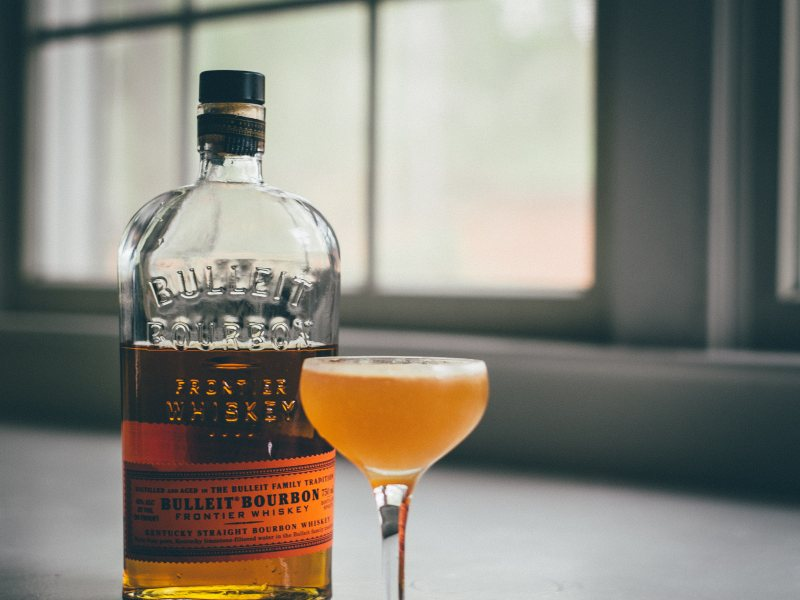
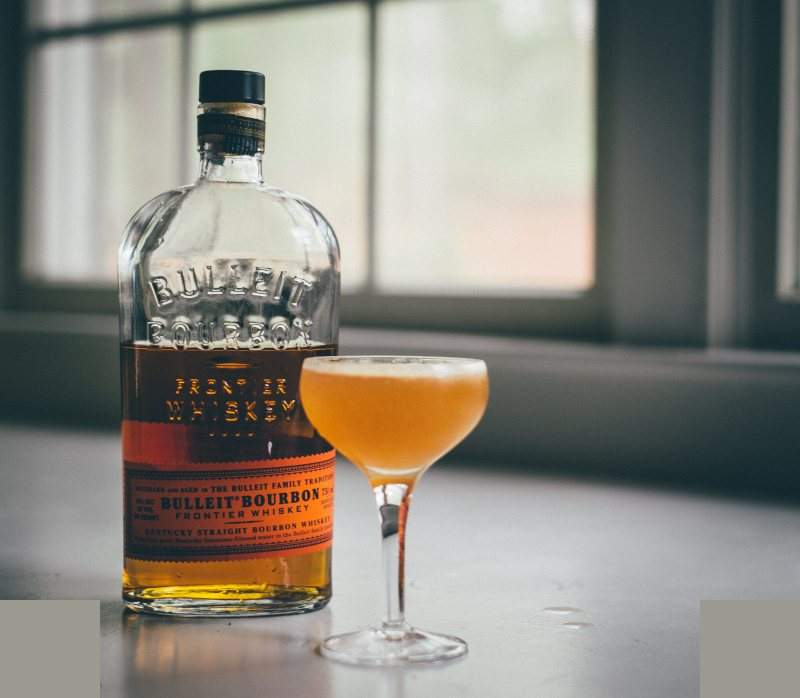
Photos « en croix » : cadrage paysage et portrait dans un seul fichier (v0.39.0)
- Photos A-B régénérées en 800 × 600 à 800 : haut de 600 px = paysage 4:3,
  colonne centrale sur toute la hauteur = portrait 3:4, coins du bas unis.
- Affichage : chaque cadre (4:3, 16:9, 3:4, carré…) prend la plus grande zone
  qui reste dans l'un des deux cadrages, ancrée en haut ; compatible avec les
  photos 800 × 600 et les photos prises dans l'appli.
- Recadrage d'une photo du catalogue dans l'appli : part du haut de l'image.
- README : format des photos documenté.

Claude-Session: https://claude.ai/code/session_01MGrXtKPwEujzpoV9NF5CqB

diff --git a/app.css b/app.css
@@ -254,7 +254,14 @@ input[type=radio]{accent-color:var(--accent)}
 .card:hover{border-color:var(--muted);transform:translateY(-2px)}
 .cv{position:relative;overflow:hidden;aspect-ratio:4/3;max-width:100%;background:var(--surface-2);background:color-mix(in srgb,var(--c) 18%,var(--surface-2));display:grid;place-items:center;color:var(--fg)}
 .cv .glass{height:84%;width:auto}
-.cv img,.dhero img,.photo-prev img,.lthumb img,.mosaic img{position:absolute;inset:0;width:100%;height:100%;object-fit:cover;display:block}
+/* Photos : celles du catalogue sont « en croix » (800 px de large, 600 à 800 de haut) : les 600 px du haut forment le cadrage paysage,
+   la colonne centrale (3/4 de la largeur) le cadrage portrait ; les coins du bas ne servent à rien. --r = largeur / hauteur de l'image,
+   renseigné au chargement. On calcule la plus petite taille qui couvre le cadre sans sortir de l'une des deux zones :
+   ancrée en haut, la photo ne coupe jamais le haut du verre. Une photo 4:3 (prise dans l'appli) s'affiche comme un « cover » ancré en haut. */
+.cv,.dhero,.photo-prev,.lthumb,.mosaic>span,.moment-v{container-type:size}
+.cv img,.dhero img,.photo-prev img,.lthumb img,.mosaic img,.moment-v img{position:absolute;inset:auto;top:0;left:50%;transform:translateX(-50%);max-width:none;height:auto;object-fit:fill;display:block;
+  width:min(max(100cqw,133.334cqh),max(calc(133.334cqw * var(--r,1.3334)),calc(100cqh * var(--r,1.3334))))}
+@supports not (width:1cqw){.cv img,.dhero img,.photo-prev img,.lthumb img,.mosaic img,.moment-v img{inset:0;left:0;transform:none;width:100%;height:100%;object-fit:cover;object-position:50% 0}}
 .pill{position:absolute;top:8px;left:8px;font:600 11px var(--font-body);padding:3px 8px;border-radius:99px;background:var(--surface);border:1px solid var(--line);color:var(--muted)}
 .pill.ok{background:var(--ok);border-color:var(--ok);color:var(--surface)}
 .pill.sub{color:var(--ok);border-color:var(--ok)}
@@ -559,7 +566,7 @@ input[type=radio]{accent-color:var(--accent)}
 .moment{display:grid;grid-template-columns:1fr;gap:0;border-radius:16px;overflow:hidden;background:var(--surface);border:1px solid var(--line)}
 .moment-v{appearance:none;border:0;padding:0;cursor:pointer;position:relative;overflow:hidden;aspect-ratio:16/10;display:grid;place-items:center;background:var(--surface-2);background:color-mix(in srgb,var(--c) 24%,var(--surface-2));color:var(--fg)}
 .moment-v .glass{height:84%;width:auto}
-.moment-v img{position:absolute;inset:0;width:100%;height:100%;object-fit:cover}
+
 .moment-t{display:flex;flex-direction:column;gap:10px;padding:18px 18px 20px;min-width:0}
 .moment-t .eyebrow{color:var(--accent)}
 .moment-t h1{font-family:var(--font-display);font-weight:800;font-size:clamp(44px,12vw,76px);line-height:.9;text-transform:uppercase;margin:0;text-wrap:balance}

diff --git a/app.js b/app.js
@@ -1,7 +1,7 @@
 /* Zeste : logique de l'application. Les données de départ sont dans data.js. */
 'use strict';
 
-const APP_VERSION = '0.38.1';
+const APP_VERSION = '0.39.0';
 const KEY = 'zeste-v1';
 const UNITS = ['ml', 'cl', ['oz', 'oz (→ ml)'], ['cup', 'cup (→ ml)'], 'g', ['', 'sans unité'], 'trait', 'goutte', 'c. de bar', 'c. à café', 'c. à soupe', 'pièce', 'feuille', 'brin', 'quartier', 'tranche', 'pincée', 'à compléter'];
 const PLURAL_UNITS = ['trait', 'goutte', 'pièce', 'feuille', 'brin', 'quartier', 'tranche', 'pincée'];
@@ -287,6 +287,8 @@ function garnIcon(key) {
   return `<svg viewBox="26.5 13 21 23" aria-hidden="true"><line x1="27" y1="28" x2="43" y2="28" stroke="currentColor" stroke-width="1.1" stroke-linecap="round" opacity=".35"/>${garnSVG(key, G)}</svg>`;
 }
 const visual = r => okPhoto(r.photo) ? `<img src="${r.photo}" data-rid="${esc(r.id)}" alt="" loading="lazy" decoding="async">` : glassSVG(r.glass, okColor(r.color), r.garn, r.rim);
+/* Proportions réelles de chaque photo affichée (voir « Photos » dans app.css) : sert au cadrage paysage / portrait des photos en croix. */
+document.addEventListener('load', e => { const i = e.target; if (i && i.tagName === 'IMG' && i.naturalHeight) i.style.setProperty('--r', (i.naturalWidth / i.naturalHeight).toFixed(4)); }, true);
 /* Photo introuvable (fichier retiré de la version publique, ou hors ligne sans que la photo ait été mise en cache) : retour à l'illustration du verre. */
 document.addEventListener('error', e => {
   const i = e.target; if (!i || i.tagName !== 'IMG' || !i.dataset || !i.dataset.rid) return;
@@ -1478,7 +1480,7 @@ function openCrop(src) {
   const img = new Image();
   img.onload = () => {
     CROP.img = img; CROP.zoom = 1; $('#crop-zoom').value = 1; $('#crop-img').src = src; $('#crop').hidden = false; lockScroll();
-    requestAnimationFrame(() => { const f = $('#crop-frame'); CROP.W = f.clientWidth; CROP.H = f.clientHeight; CROP.s0 = Math.max(CROP.W / img.naturalWidth, CROP.H / img.naturalHeight); CROP.s = CROP.s0; CROP.x = (CROP.W - img.naturalWidth * CROP.s) / 2; CROP.y = (CROP.H - img.naturalHeight * CROP.s) / 2; drawCrop(); });
+    requestAnimationFrame(() => { const f = $('#crop-frame'); CROP.W = f.clientWidth; CROP.H = f.clientHeight; CROP.s0 = Math.max(CROP.W / img.naturalWidth, CROP.H / img.naturalHeight); CROP.s = CROP.s0; CROP.x = (CROP.W - img.naturalWidth * CROP.s) / 2; CROP.y = /^photos\//.test(src) ? 0 : (CROP.H - img.naturalHeight * CROP.s) / 2; drawCrop(); });
   };
   img.onerror = () => toast('Image illisible. Formats conseillés : JPEG ou PNG.');
   img.src = src;

diff --git a/data.js b/data.js
@@ -1265,7 +1265,10 @@ Object.keys(RECIPE_EDITS).forEach(id => { const r = RECIPES.find(x => x.id === i
 /* Le kirsch, sec et marqué par le noyau, est le meilleur remplaçant du marasquin (avec un trait de sirop pour le sucre). */
 RECIPES.forEach(r => r.ings.forEach(i => { if (i.id === 'marasquin' && !i.alts.includes('kirsch')) i.alts = [...i.alts, 'kirsch']; }));
 
-/* Photos des recettes : fichiers du dossier photos/ (4:3, 800 × 600, JPEG).
+/* Photos des recettes : fichiers du dossier photos/ (JPEG, 800 px de large).
+   Format « en croix » : les 600 px du haut forment le cadrage paysage (4:3) ; la colonne centrale (x de 100 à 700),
+   sur toute la hauteur (jusqu'à 800 px), forme le cadrage portrait (3:4). Les coins du bas, hors des deux cadrages, sont unis.
+   Une photo 800 × 600 classique reste valable. L'affichage choisit le cadrage selon la forme du cadre (voir app.css).
    Une recette sans entrée garde l'illustration du verre. */
 const PHOTOS = {
   'bandung': 'photos/bandung.jpg',

diff --git a/sw.js b/sw.js
@@ -1,6 +1,6 @@
 /* Zeste : fonctionnement hors ligne.
    Changer VERSION à chaque mise en ligne : les appareils proposent alors la mise à jour. */
-const VERSION = 'zeste-0.38.1';
+const VERSION = 'zeste-0.39.0';
 const ASSETS = [
   './', 'index.html', 'app.css', 'app.js', 'data.js', 'infos.js', 'manifest.webmanifest',
   'icons/icon.svg', 'icons/icon-192.png', 'icons/icon-512.png', 'icons/icon-maskable-192.png', 'icons/icon-maskable-512.png', 'icons/apple-touch-icon.png', 'icons/favicon-32.png',

diff --git a/README.md b/README.md
@@ -33,6 +33,18 @@ Les appareils qui ont déjà l'appli affichent alors « Une nouvelle version de 
 - Stockage : IndexedDB, sur l'appareil.
 - Sauvegarde et restauration : onglet **Données**, avec un fichier `.json` qui inclut les photos.
 
+## Photos
+
+Fichiers JPEG de 800 px de large dans `photos/`, nommés d'après l'id de la recette (`photos/french-75.jpg`), déclarés dans `PHOTOS` (`data.js`).
+
+Format « en croix », pour un seul fichier par recette quel que soit l'affichage :
+
+- les **600 px du haut**, sur toute la largeur : cadrage paysage (4:3), utilisé par le catalogue et la fiche recette ;
+- la **colonne centrale** (x de 100 à 700), sur toute la hauteur (600 à 800 px) : cadrage portrait (3:4), utilisé par les cartes de l'accueil ; il montre le bas du verre que le paysage coupe ;
+- les **deux coins du bas** ne servent à aucun cadrage : couleur unie, qui ne pèse presque rien.
+
+Le haut du verre doit toujours être dans les 600 px du haut : les cadres sont ancrés en haut et ne coupent jamais le haut de l'image. Une photo 800 × 600 classique fonctionne aussi (le portrait prend alors la bande centrale).
+
 ## Photos et licences
 
 Les photos du dossier `photos/` ont chacune un statut dans `PHOTO_STATUS` (`data.js`) :
